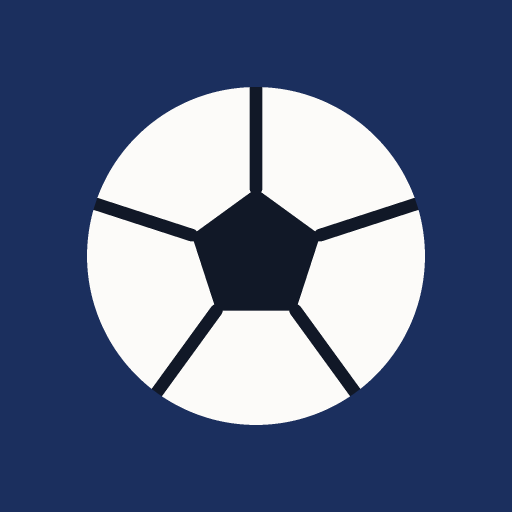
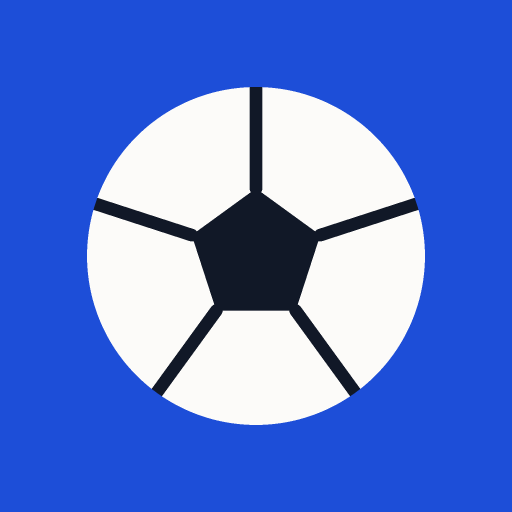
v1.24: lysere blå topp, i samme familie som resten
Den mørke marinen på topplinjen, laghodene og modaltoppene er byttet ut med
samme blåtone som knappene (#1d4ed8). Fargen er nå én familie i hele appen i
stedet for en mørk kontrastflate på toppen.

Den lysere bakgrunnen tåler ikke like svak hvit tekst: inaktive faner falt fra
5,05:1 til 3,11:1 i kontrast. Gjennomsiktigheten på faner, ikoner, datolinje og
lagtellere er justert opp, så alt ligger på 4,7:1 eller bedre igjen (målt i
nettleseren: inaktiv fane 5,03:1, aktiv 6,70:1).

Ikonene og theme-color følger den nye fargen, og sw.js er bumpet.

diff --git a/index.html b/index.html
@@ -7,7 +7,7 @@
   <meta name="apple-mobile-web-app-capable" content="yes">
   <meta name="apple-mobile-web-app-title" content="Gruppe-gen.">
   <meta name="apple-mobile-web-app-status-bar-style" content="black-translucent">
-  <meta name="theme-color" content="#1b2f5e">
+  <meta name="theme-color" content="#1d4ed8">
   <link rel="manifest" href="manifest.webmanifest">
   <link rel="apple-touch-icon" href="apple-touch-icon.png">
   <link rel="icon" href="icon-192.png" type="image/png">
@@ -22,7 +22,7 @@
       --bg:#eef2f8;--surface:#f7f9fc;--card:#fff;--border:#dee5ef;--border-strong:#b6c1d2;
       --text:#111827;--muted:#647087;--hint:#97a2b6;
       /* --primary er det man trykker på, --primary-deep er de store flatene */
-      --primary:#2563eb;--primary-hover:#1d4ed8;--primary-light:#e6edfe;--primary-deep:#1b2f5e;
+      --primary:#2563eb;--primary-hover:#1d4ed8;--primary-light:#e6edfe;--primary-deep:#1d4ed8;
       --danger:#d13438;--danger-strong:#a52a2e;--danger-bg:#fdf1f1;--danger-bg-hover:#fbe4e4;
       --danger-border:#f2c2c3;--danger-border-hover:#e79a9c;
       --success:#15803d;--success-bg:#c9ead6;--warn:#f5c451;
@@ -40,15 +40,15 @@
     .header-left{display:flex;gap:.35rem;align-items:center;flex:1}
     .header-center{flex:1;text-align:center}
     .header-right{flex:1;display:flex;justify-content:flex-end;align-items:center}
-    .version{font-size:.68rem;opacity:.4;font-weight:400;letter-spacing:.03em}
+    .version{font-size:.68rem;opacity:.6;font-weight:400;letter-spacing:.03em}
     .header-center h1{font-size:1.6rem;font-weight:600;letter-spacing:-.4px}
-    .io-btn-sm{background:none;border:none;cursor:pointer;color:rgba(255,255,255,.55);padding:2px;transition:color .15s;line-height:1}
+    .io-btn-sm{background:none;border:none;cursor:pointer;color:rgba(255,255,255,.78);padding:2px;transition:color .15s;line-height:1}
     .io-btn-sm:hover{color:#fff}
     .io-btn-sm svg{display:block}
 
     /* Tabs */
-    .tabs{display:flex;border-bottom:1px solid rgba(255,255,255,.15);margin-top:.25rem}
-    .tab-btn{flex:1;padding:.6rem .5rem;background:none;border:none;color:rgba(255,255,255,.55);font-family:inherit;font-size:.82rem;font-weight:500;cursor:pointer;border-bottom:2px solid transparent;transition:all .15s;letter-spacing:.01em}
+    .tabs{display:flex;border-bottom:1px solid rgba(255,255,255,.25);margin-top:.25rem}
+    .tab-btn{flex:1;padding:.6rem .5rem;background:none;border:none;color:rgba(255,255,255,.82);font-family:inherit;font-size:.82rem;font-weight:500;cursor:pointer;border-bottom:2px solid transparent;transition:all .15s;letter-spacing:.01em}
     .tab-btn.active{color:#fff;border-bottom-color:#fff}
 
     /* Content */
@@ -121,14 +121,14 @@
     .modal-head{background:var(--primary-deep);color:#fff;padding:1rem 1.25rem;display:flex;align-items:center;justify-content:space-between;gap:1rem}
     .modal-head-left{display:flex;align-items:center;gap:1rem;flex-wrap:wrap}
     .modal-head-title{font-size:.95rem;font-weight:600}
-    .modal-head-date{font-size:.8rem;opacity:.7}
+    .modal-head-date{font-size:.8rem;opacity:.85}
     .modal-head-actions{display:flex;gap:.5rem;align-items:center;flex-wrap:wrap}
     .btn-modal-regen{display:inline-flex;align-items:center;gap:.35rem;padding:.45rem .875rem;font-family:inherit;font-size:.82rem;font-weight:500;border:1px solid rgba(255,255,255,.3);border-radius:var(--radius-xs);background:rgba(255,255,255,.12);color:#fff;cursor:pointer;transition:all .15s}
     .btn-modal-regen:hover{background:rgba(255,255,255,.22)}
     .btn-modal-save{display:inline-flex;align-items:center;gap:.35rem;padding:.45rem 1rem;font-family:inherit;font-size:.82rem;font-weight:600;border:none;border-radius:var(--radius-xs);background:#fff;color:var(--primary);cursor:pointer;transition:all .15s}
     .btn-modal-save:hover{background:var(--primary-light)}
     .btn-modal-save.saved{background:var(--success-bg);color:var(--success)}
-    .btn-modal-close{background:none;border:none;cursor:pointer;color:rgba(255,255,255,.6);font-size:1.3rem;line-height:1;padding:.1rem;flex-shrink:0;transition:color .15s}
+    .btn-modal-close{background:none;border:none;cursor:pointer;color:rgba(255,255,255,.8);font-size:1.3rem;line-height:1;padding:.1rem;flex-shrink:0;transition:color .15s}
     .btn-modal-close:hover{color:#fff}
     .unsaved-badge{font-size:.72rem;font-weight:500;color:var(--warn);display:inline-flex;align-items:center;gap:.3rem}
     .unsaved-dot{width:5px;height:5px;border-radius:50%;background:var(--warn)}
@@ -141,7 +141,7 @@
     .group-card.drag-over{border-color:var(--primary);box-shadow:0 0 0 3px var(--primary-light)}
     .group-head{padding:.55rem 1rem;background:var(--primary-deep);color:#fff;display:flex;align-items:center;justify-content:space-between}
     .group-head-title{font-size:.75rem;font-weight:600;letter-spacing:.07em;text-transform:uppercase}
-    .group-head-count{font-size:.72rem;opacity:.75}
+    .group-head-count{font-size:.72rem;opacity:.88}
     .group-body{padding:.75rem 1rem;display:flex;flex-direction:column;gap:.3rem;min-height:44px}
     .group-body.drag-over-body{background:var(--primary-light)}
     .group-drop-hint{font-size:.72rem;color:var(--primary);opacity:.6;text-align:center;padding:.4rem 0;display:none}
@@ -347,7 +347,7 @@
       <input type="file" id="importInput" accept=".json" style="display:none" onchange="importData(this)">
     </div>
     <div class="header-center"><h1>Gruppegenerator</h1></div>
-    <div class="header-right"><span class="version">v1.23</span></div>
+    <div class="header-right"><span class="version">v1.24</span></div>
   </div>
   <div class="tabs">
     <button class="tab-btn active" onclick="switchTab('main',this)">Generer</button>

diff --git a/sw.js b/sw.js
@@ -1,5 +1,5 @@
 // Service worker: gjør appen brukbar uten nett. Bump VERSION ved endringer.
-const VERSION = 'v1.23';
+const VERSION = 'v1.24';
 const SHELL   = 'gf-shell-' + VERSION;
 const RUNTIME = 'gf-runtime-' + VERSION;
 
